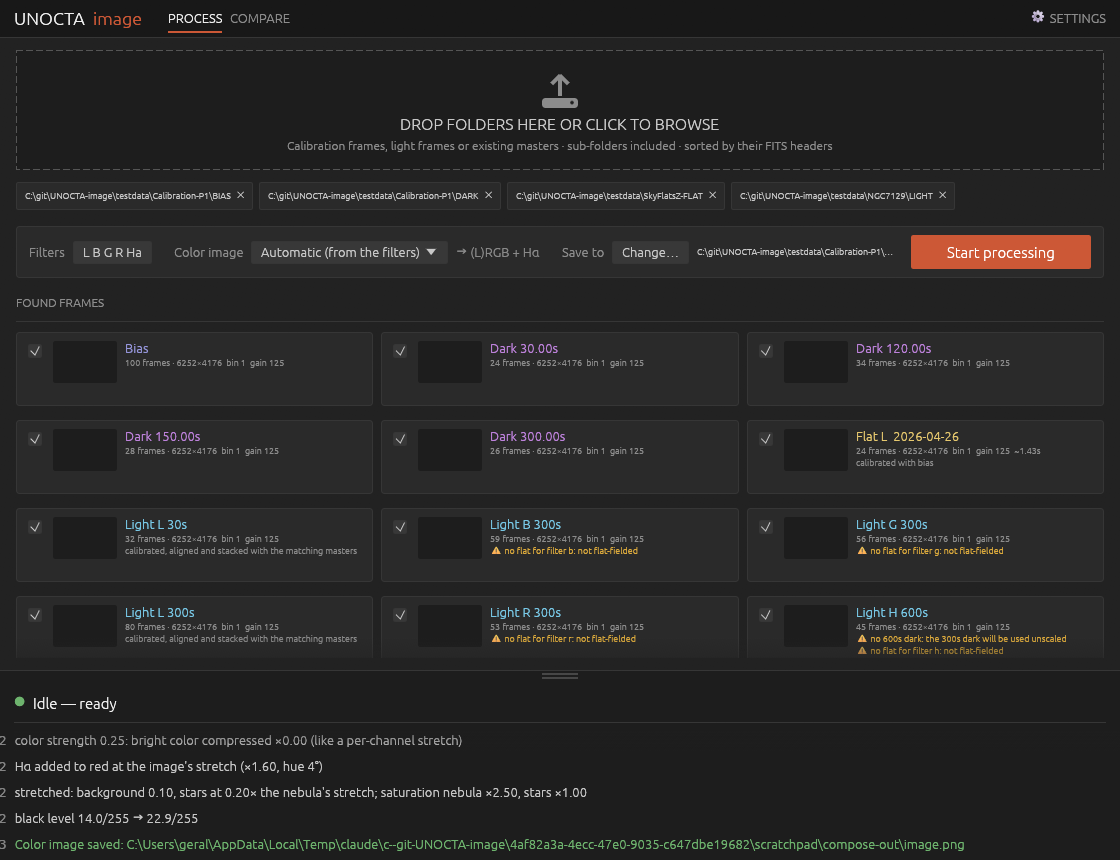
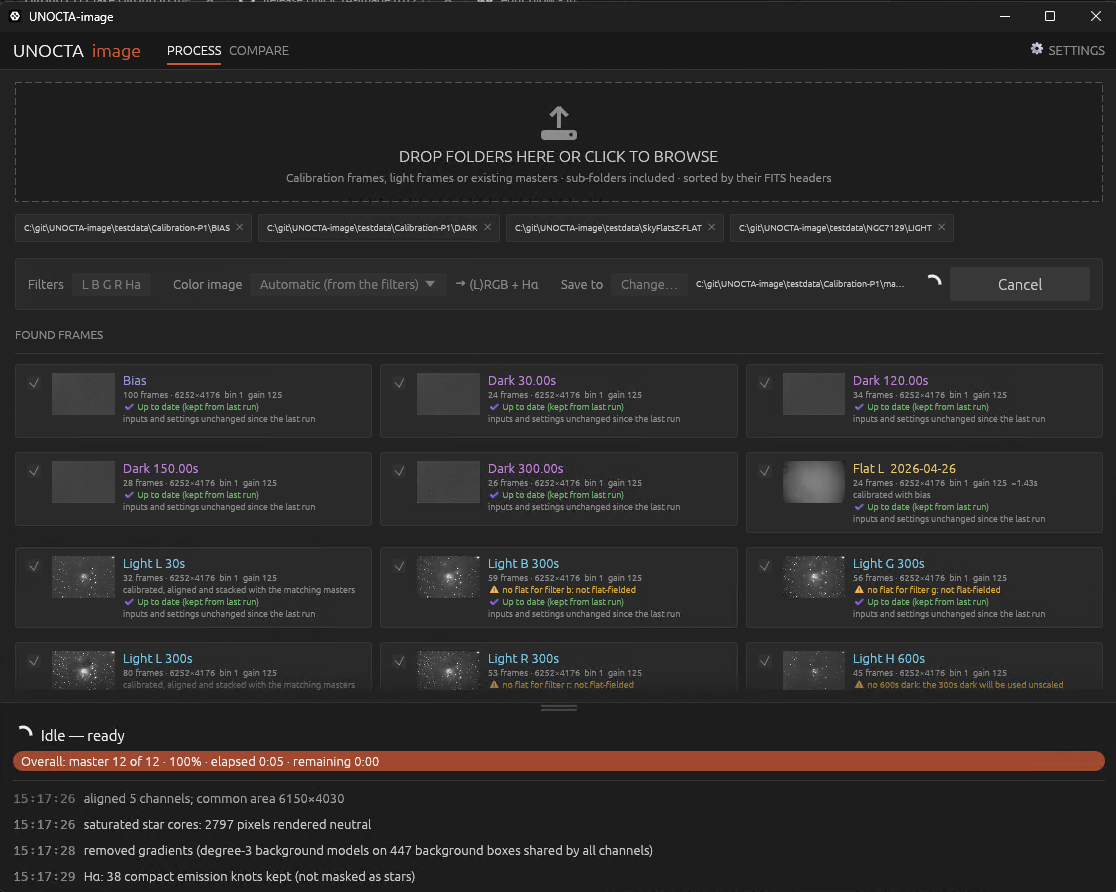
README: screenshots of the main window and the color-image window

diff --git a/README.md b/README.md
@@ -48,6 +48,8 @@ xattr -d com.apple.quarantine unocta-macos-arm64
    (XISF or FITS). When there are color filters, the color image opens with sliders for
    brightness, color and stars. Save it as PNG, TIFF, XISF or FITS.
 
+![The color image with its sliders](images/color-window.png)
+
 Recognized filters: L, R, G, B, Hα, OIII, SII (also spelled Lum, Red, H-alpha, "Ha 7nm", …).
 If a name isn't recognized, UNOCTA asks once and remembers.
 
